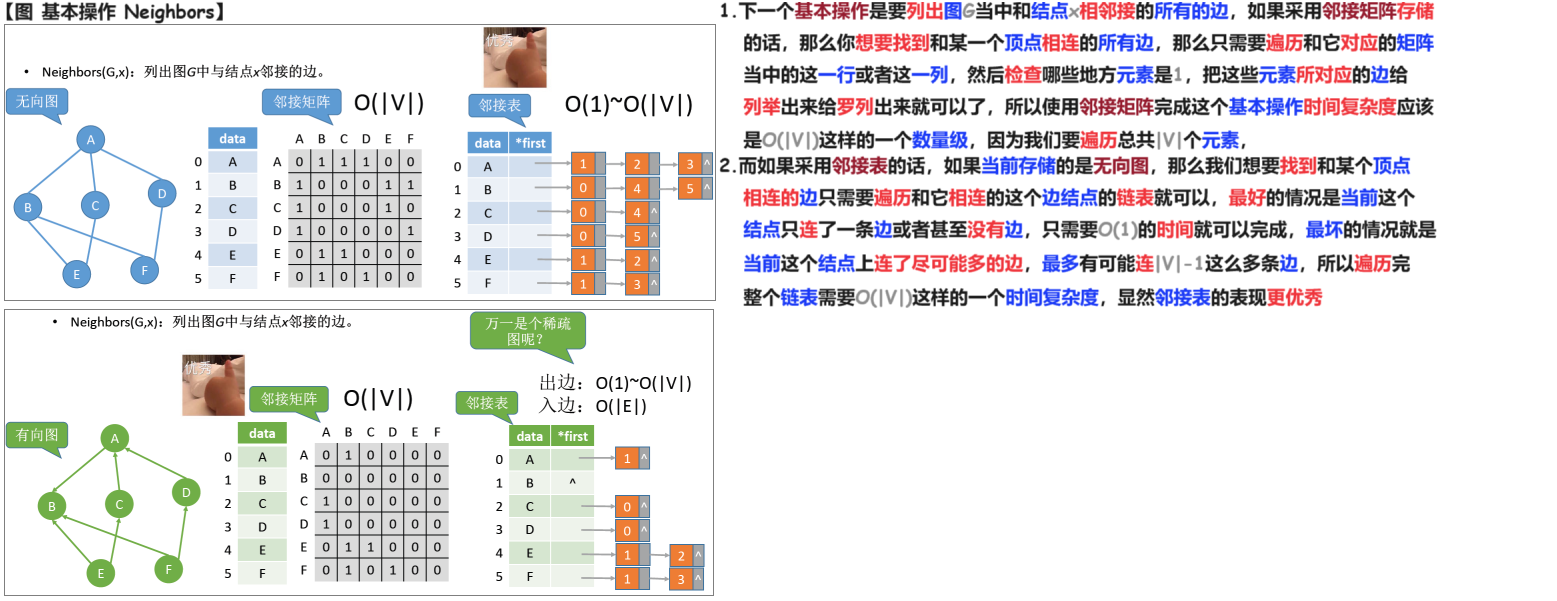
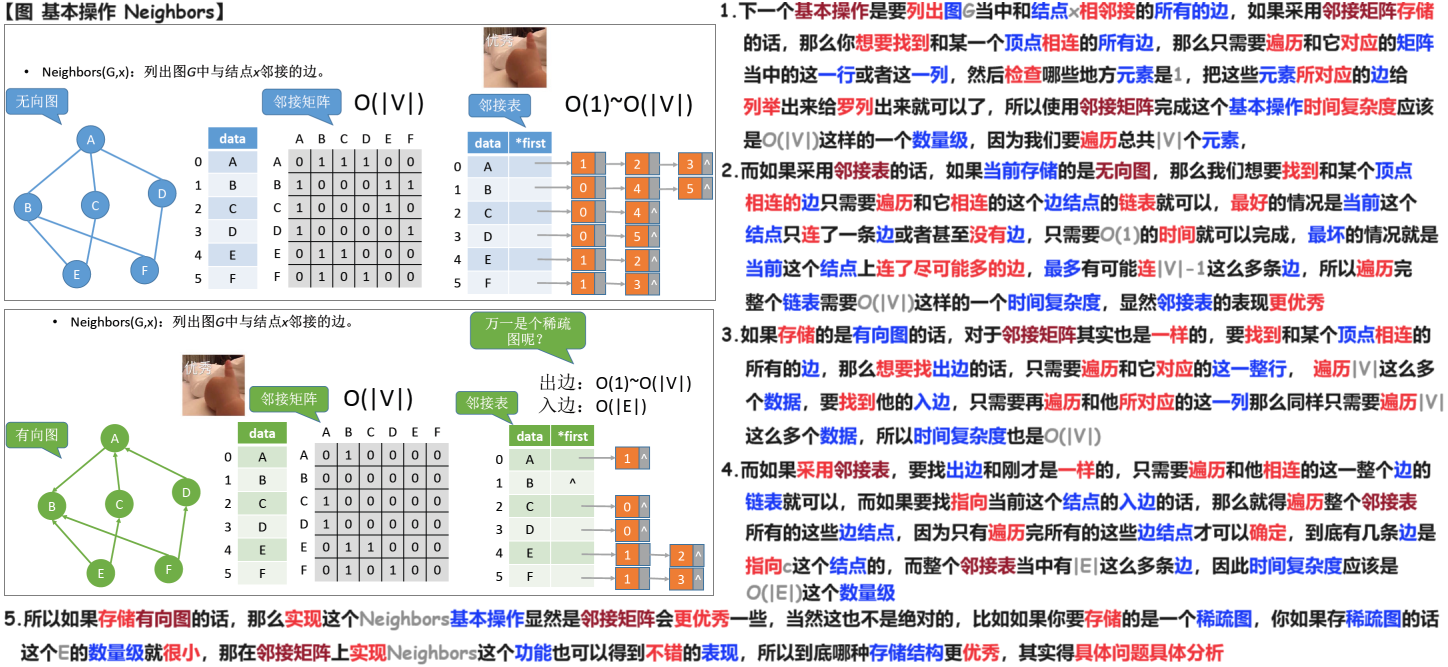
240423

diff --git a/01 初试/02 DS/02 24 王道 基础/06 图/02 图 存储 基本操作/04 图 基本操作 240423/02 Doc.md b/01 初试/02 DS/02 24 王道 基础/06 图/02 图 存储 基本操作/04 图 基本操作 240423/02 Doc.md
@@ -16,3 +16,9 @@
 
 # 03 图 基本操作 Neighbors
 
+<img src="https://cvp.oss-cn-shanghai.aliyuncs.com/picgo/202404231507757.png" alt="image-20240423150719587" style="zoom:50%;" />
+
+
+
+# 04 图 基本操作 InsertVertex
+
